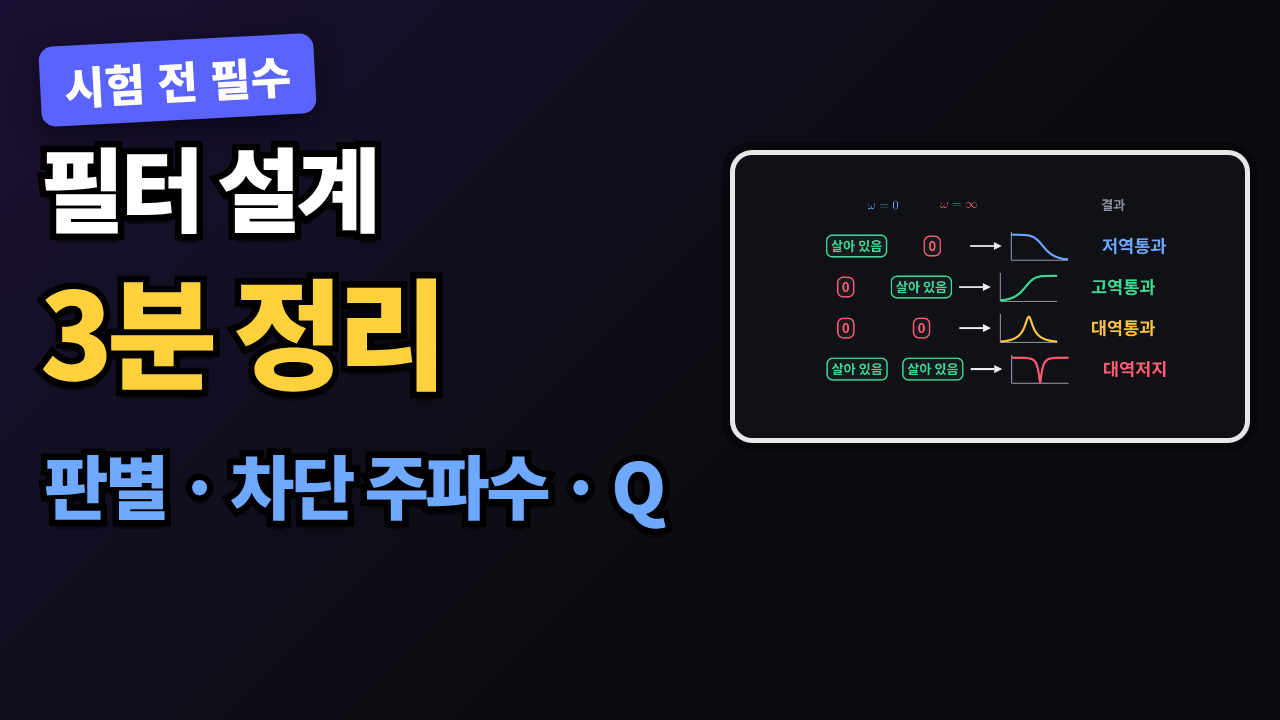
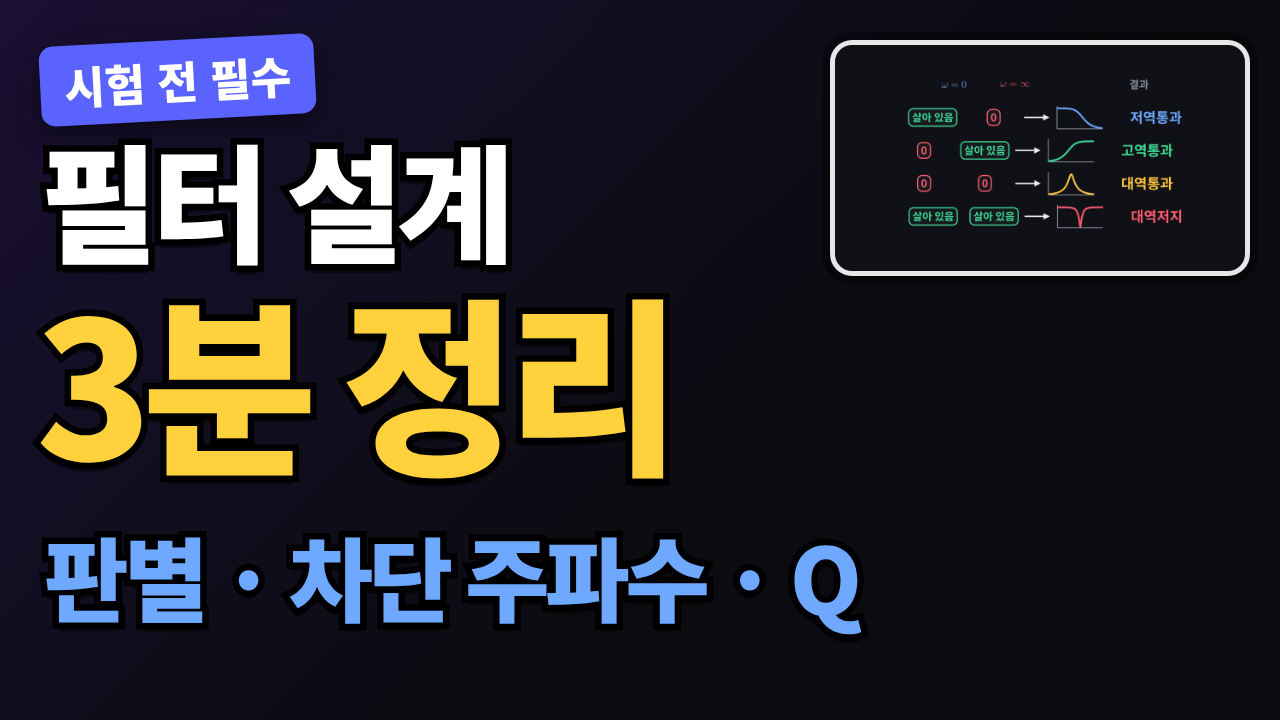
14장 필터 편: 썸네일 V2 글씨 키움
Claude-Session: https://claude.ai/code/session_01HiQj8AEdQLwaj9ZHtTSWhP

diff --git a/youtube/filter14/thumbnail/thumbs.html b/youtube/filter14/thumbnail/thumbs.html
@@ -18,10 +18,10 @@ body{background:#000;font-family:'Noto Sans CJK KR',sans-serif}
 #V1 .c{left:40px;top:450px;font-size:72px;color:#3ddc97}
 #V1 .badge{left:40px;top:40px}
 #V2{background:linear-gradient(135deg,#1a1033,#0b0c10 60%)}
-#V2 .img{right:30px;top:150px;width:520px;height:293px;background-image:url(g_e1.png)}
-#V2 .a{left:40px;top:140px;font-size:92px;color:#fff}
-#V2 .b{left:40px;top:270px;font-size:120px;color:#ffd23d}
-#V2 .c{left:44px;top:450px;font-size:70px;color:#6ea8ff}
+#V2 .img{right:30px;top:40px;width:420px;height:236px;background-image:url(g_e1.png)}
+#V2 .a{left:40px;top:135px;font-size:128px;color:#fff}
+#V2 .b{left:36px;top:285px;font-size:190px;color:#ffd23d}
+#V2 .c{left:44px;top:530px;font-size:92px;color:#6ea8ff}
 #V2 .badge{left:40px;top:40px;background:#5b63ff}
 #V2 .person{right:-50px;height:300px}
 .r{width:1080px;height:1920px;position:relative;overflow:hidden;margin-bottom:10px;background:#0d0f14}
